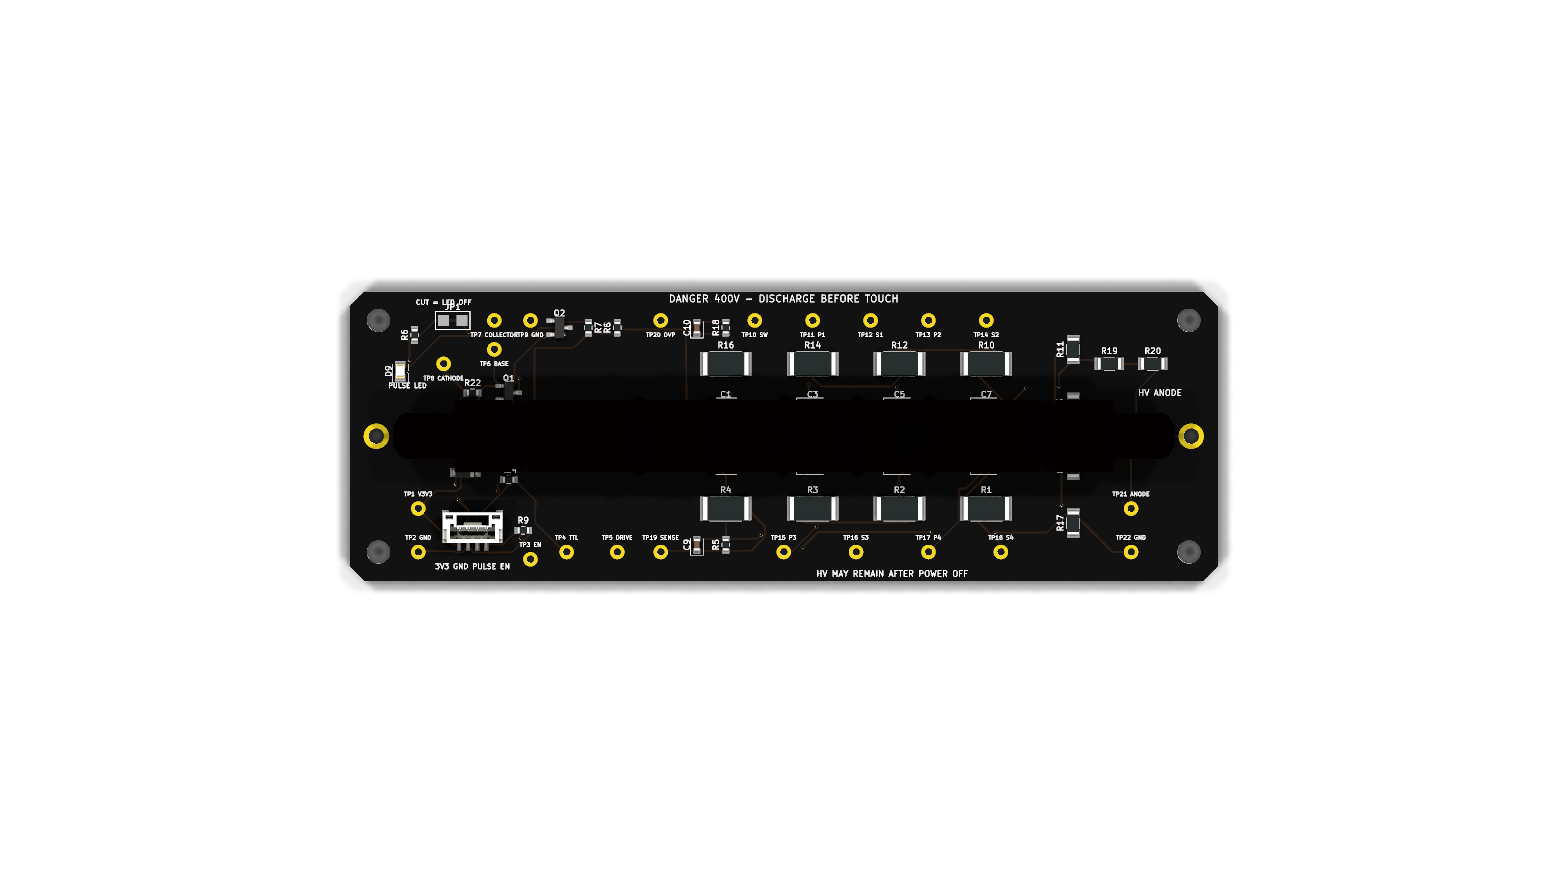
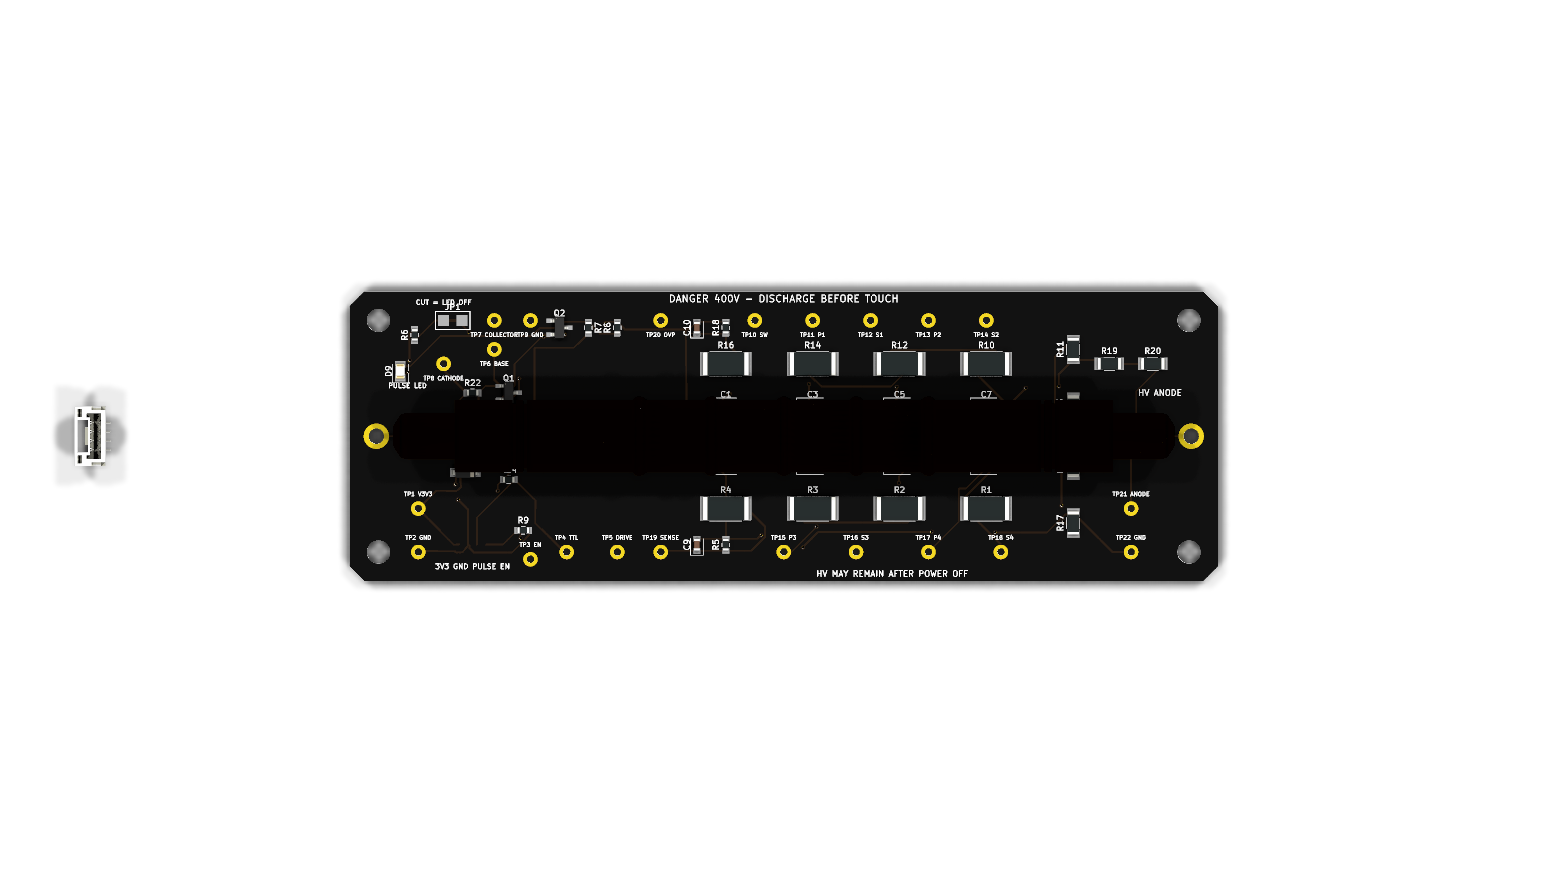
Apply end connector placement and 0.8mm stackup

diff --git a/scripts/place_kicad_implementation.py b/scripts/place_kicad_implementation.py
@@ -3,7 +3,6 @@ from pathlib import Path
 import pcbnew
 ROOT=Path(__file__).resolve().parents[1]
 board=pcbnew.LoadBoard(str(ROOT/'kicad/glowcost-geiger.kicad_pcb'))
-board.SetThickness(0.8)
 j1=board.FindFootprintByReference('J1')
 if j1:
  j1.SetPosition(pcbnew.VECTOR2I(int(4.5*1e6),int(100*1e6)))
